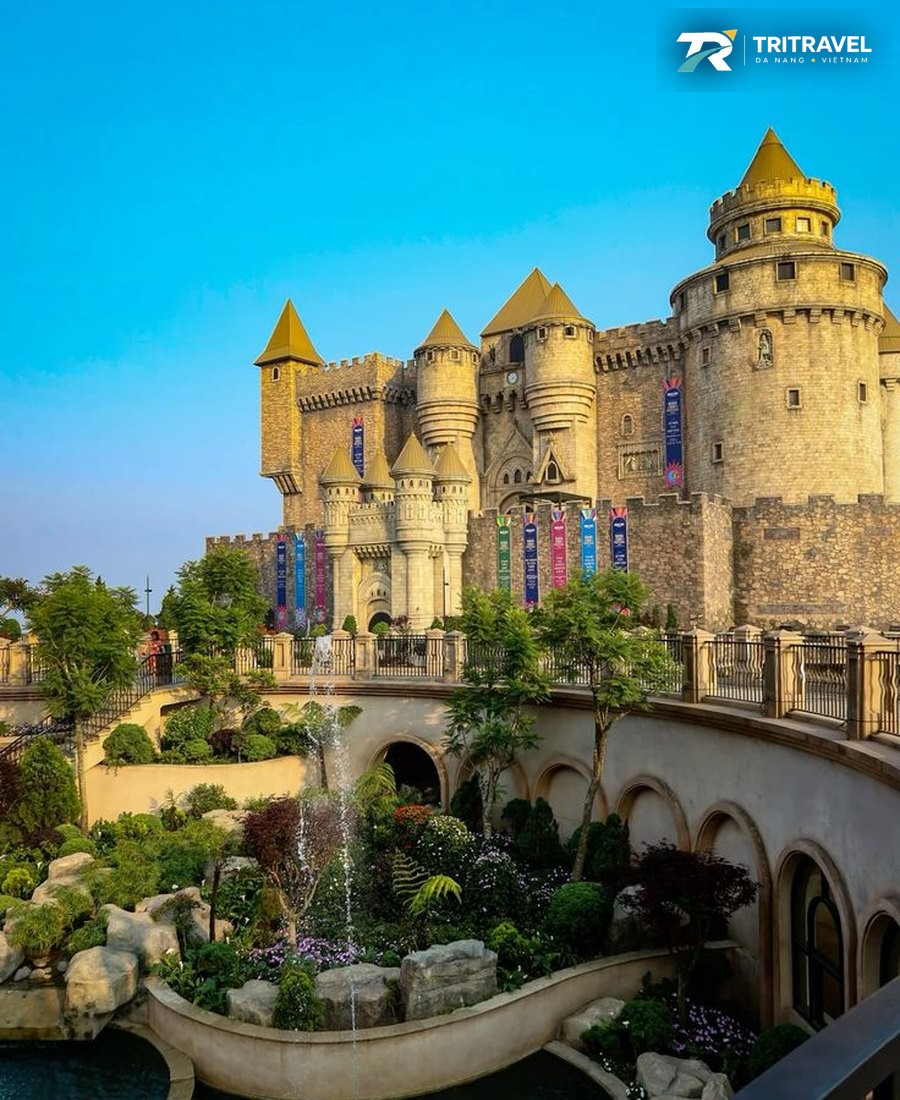
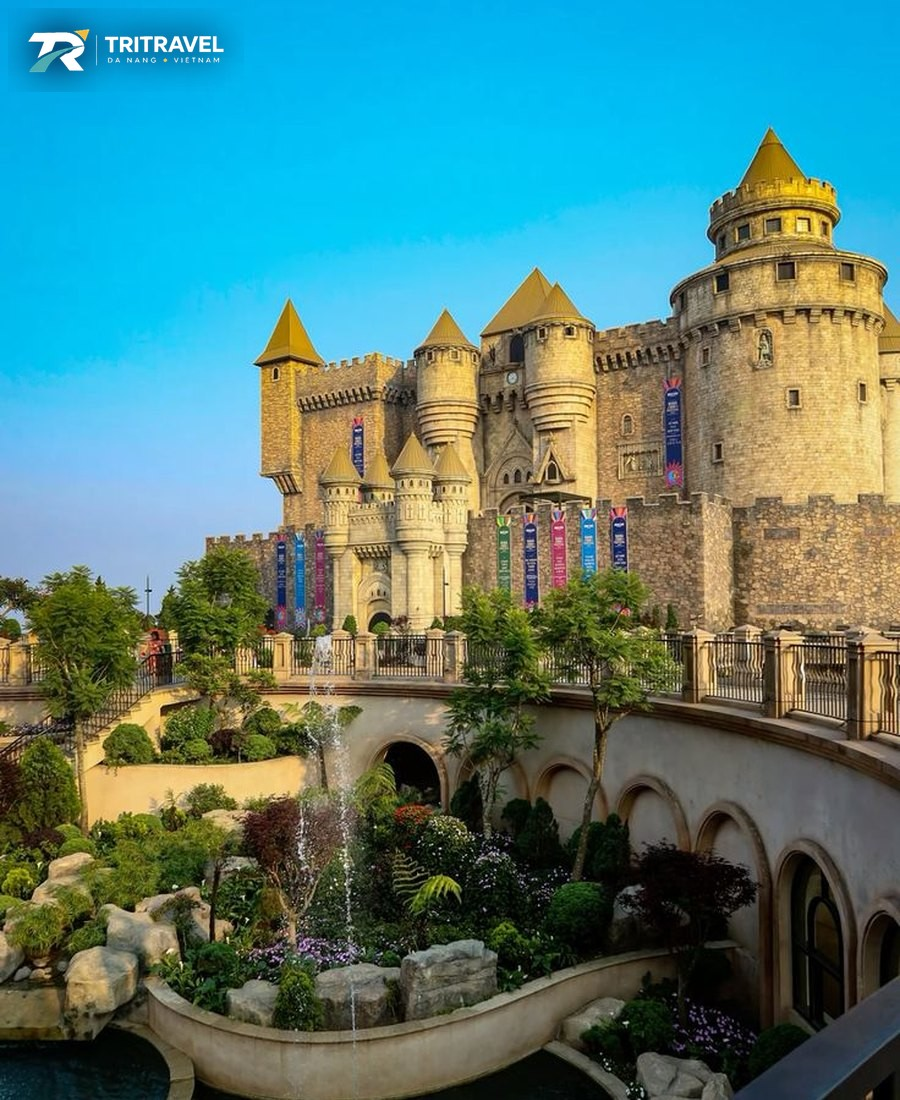
Add scroll colour transitions, arc-shaped images and hero zoom
- Homepage sections carry data-theme (paper/sand/navy/teal); while scrolling,
  the whole page background and text colours ease into the theme of the section
  at mid-screen. Without JS each section paints its own background.
- Header hides on scroll down and returns on scroll up.
- Tour cards, service photos, the about poster, blog thumbnails and article
  covers get one large rounded corner; corners avoid the stamped logo.
  The Ba Na card image is restamped with the logo top-left for its top-right arc.
- Slow zoom on the hero image (disabled with reduced motion).

Claude-Session: https://claude.ai/code/session_01MxRhHLASeYaVNE2NrfM7Db

Changed region(s): [[0.7156, 0.0, 0.9956, 0.0927], [0.0, 0.0, 0.2489, 0.0927]]

diff --git a/index.html b/index.html
@@ -52,7 +52,7 @@
 <link rel="preload" as="image" href="images/hero-danang.jpg">
 <link rel="stylesheet" href="assets/site.css">
 </head>
-<body>
+<body data-theme="paper">
 <!-- header:start -->
 <svg width="0" height="0" style="position:absolute" aria-hidden="true"><defs><symbol id="i-compass" viewBox="0 0 24 24"><circle cx="12" cy="12" r="9"/><path d="m15.5 8.5-2 5-5 2 2-5z"/></symbol><symbol id="i-visa" viewBox="0 0 24 24"><rect x="5" y="3" width="14" height="18" rx="2"/><circle cx="12" cy="10" r="3"/><path d="M9 17h6"/></symbol><symbol id="i-car" viewBox="0 0 24 24"><path d="M4 16v-3l2-5a2 2 0 0 1 2-1h8a2 2 0 0 1 2 1l2 5v3M3 16h18v2H3zM7 13h10"/><circle cx="7.5" cy="18" r="1.5"/><circle cx="16.5" cy="18" r="1.5"/></symbol><symbol id="i-plane" viewBox="0 0 24 24"><path d="M10.5 13.5 3 11l1.5-1.5 7 .5 4.6-4.6a2 2 0 0 1 2.8 2.8L14.300 12.800l.5 7L13.300 21.300z"/></symbol><symbol id="i-arrow" viewBox="0 0 24 24"><path d="M5 12h14M13 6l6 6-6 6"/></symbol><symbol id="i-check" viewBox="0 0 24 24"><path d="m5 12.500 4.500 4.500L19 7.500"/></symbol><symbol id="i-phone" viewBox="0 0 24 24"><path d="M5 4h4l2 5-2.500 1.500a11 11 0 0 0 5 5L15 13l5 2v4a2 2 0 0 1-2 2A16 16 0 0 1 3 6a2 2 0 0 1 2-2z"/></symbol><symbol id="i-chat" viewBox="0 0 24 24"><path d="M21 12a8 8 0 0 1-11.800 7L4 20l1.200-4.500A8 8 0 1 1 21 12z"/></symbol><symbol id="i-mail" viewBox="0 0 24 24"><rect x="3" y="5" width="18" height="14" rx="2"/><path d="m3 7 9 6 9-6"/></symbol><symbol id="i-menu" viewBox="0 0 24 24"><path d="M4 7h16M4 12h16M4 17h16"/></symbol><symbol id="i-clock" viewBox="0 0 24 24"><circle cx="12" cy="12" r="9"/><path d="M12 7v5l3 2"/></symbol><symbol id="i-link" viewBox="0 0 24 24"><path d="M10 14a4 4 0 0 0 5.700 0l3-3a4 4 0 0 0-5.700-5.700l-1 1M14 10a4 4 0 0 0-5.700 0l-3 3a4 4 0 0 0 5.700 5.700l1-1"/></symbol></defs></svg>
 <header class="site-header">
@@ -104,7 +104,7 @@
 </div>
 
 <!-- ===== TOUR ===== -->
-<section class="section" id="tours">
+<section class="section" id="tours" data-theme="paper">
   <div class="wrap"><span id="tour"></span>
     <div class="sec-head">
       <div><p class="eyebrow"><span lang="vi">Tour nổi bật</span><span lang="en">Signature tours</span></p>
@@ -112,28 +112,28 @@
       <p class="lede"><span lang="vi">Mỗi tour đều do TriTravel tự khảo sát và dẫn đoàn. Giá bên dưới là giá tham khảo cho một khách, thay đổi theo số người và mùa.</span><span lang="en">Every tour is scouted and led by TriTravel. Prices are per-person guides and vary with group size and season.</span></p>
     </div>
     <div class="tours">
-      <a class="tour reveal" href="#contact" data-service="tour" data-note="Tour Đà Nẵng – Hội An 1 ngày" data-note-en="Da Nang – Hoi An day tour">
+      <a class="tour reveal shape-tl" href="#contact" data-service="tour" data-note="Tour Đà Nẵng – Hội An 1 ngày" data-note-en="Da Nang – Hoi An day tour">
         <img src="images/web/tour-hoi-an.jpg" alt="Phố cổ Hội An lúc hoàng hôn" width="900" height="1100" loading="lazy">
-        <span class="tag"><span lang="vi">1 ngày</span><span lang="en">1 day</span></span>
         <div class="tour-body">
+          <span class="tag"><span lang="vi">1 ngày</span><span lang="en">1 day</span></span>
           <h3><span lang="vi">Đà Nẵng – Hội An cổ kính</span><span lang="en">Da Nang – Ancient Hoi An</span></h3>
           <p><span lang="vi">Dạo phố cổ, thả đèn hoa đăng trên sông Hoài, ăn cao lầu và bánh mì đúng quán người Hội An hay ăn.</span><span lang="en">Wander the old town, float lanterns on the Hoai River, eat cao lau and banh mi where Hoi An people actually go.</span></p>
           <div class="tour-foot"><b><span lang="vi">Từ 350.000₫</span><span lang="en">From $15</span></b><span><span lang="vi">Đặt tour</span><span lang="en">Book</span><svg class="icon" aria-hidden="true"><use href="#i-arrow"/></svg></span></div>
         </div>
       </a>
-      <a class="tour reveal" href="#contact" data-service="tour" data-note="Tour Bà Nà Hills – Cầu Vàng 1 ngày" data-note-en="Ba Na Hills – Golden Bridge day tour">
+      <a class="tour reveal shape-tr" href="#contact" data-service="tour" data-note="Tour Bà Nà Hills – Cầu Vàng 1 ngày" data-note-en="Ba Na Hills – Golden Bridge day tour">
         <img src="images/web/tour-ba-na.jpg" alt="Làng Pháp trên đỉnh Bà Nà Hills" width="900" height="1100" loading="lazy">
-        <span class="tag"><span lang="vi">1 ngày</span><span lang="en">1 day</span></span>
         <div class="tour-body">
+          <span class="tag"><span lang="vi">1 ngày</span><span lang="en">1 day</span></span>
           <h3><span lang="vi">Bà Nà Hills – Cầu Vàng</span><span lang="en">Ba Na Hills – Golden Bridge</span></h3>
           <p><span lang="vi">Lên Cầu Vàng trước giờ đông khách, thong thả qua Làng Pháp và vườn hoa Le Jardin d'Amour.</span><span lang="en">Reach the Golden Bridge before the crowds, then take your time through the French Village and Le Jardin d'Amour.</span></p>
           <div class="tour-foot"><b><span lang="vi">Từ 750.000₫</span><span lang="en">From $30</span></b><span><span lang="vi">Đặt tour</span><span lang="en">Book</span><svg class="icon" aria-hidden="true"><use href="#i-arrow"/></svg></span></div>
         </div>
       </a>
-      <a class="tour reveal" href="#contact" data-service="tour" data-note="Tour Huế cố đô 2 ngày" data-note-en="Hue Imperial City 2-day tour">
+      <a class="tour reveal shape-tl" href="#contact" data-service="tour" data-note="Tour Huế cố đô 2 ngày" data-note-en="Hue Imperial City 2-day tour">
         <img src="images/web/tour-hue.jpg" alt="Ngọ Môn, Đại Nội Huế nhìn từ trên cao" width="900" height="1100" loading="lazy">
-        <span class="tag"><span lang="vi">2 ngày</span><span lang="en">2 days</span></span>
         <div class="tour-body">
+          <span class="tag"><span lang="vi">2 ngày</span><span lang="en">2 days</span></span>
           <h3><span lang="vi">Huế – cố đô lịch sử</span><span lang="en">Hue – the Imperial City</span></h3>
           <p><span lang="vi">Đại Nội, lăng tẩm các vua Nguyễn, chùa Thiên Mụ và một buổi chiều thuyền rồng trên sông Hương.</span><span lang="en">The Citadel, the Nguyen royal tombs, Thien Mu Pagoda and a dragon-boat afternoon on the Perfume River.</span></p>
           <div class="tour-foot"><b><span lang="vi">Từ 1.200.000₫</span><span lang="en">From $50</span></b><span><span lang="vi">Đặt tour</span><span lang="en">Book</span><svg class="icon" aria-hidden="true"><use href="#i-arrow"/></svg></span></div>
@@ -149,7 +149,7 @@
 </section>
 
 <!-- ===== VISA & DỊCH THUẬT ===== -->
-<section class="section band-navy" id="visa">
+<section class="section band-navy" id="visa" data-theme="navy">
   <div class="wrap">
     <div class="visa-grid">
       <div>
@@ -189,7 +189,7 @@
 </section>
 
 <!-- ===== DI CHUYỂN ===== -->
-<section class="section" id="transport">
+<section class="section" id="transport" data-theme="paper">
   <div class="wrap">
     <div class="sec-head">
       <div><p class="eyebrow"><span lang="vi">Di chuyển</span><span lang="en">Getting around</span></p>
@@ -198,7 +198,7 @@
     </div>
     <div class="duo">
       <article class="svc reveal">
-        <div class="svc-img"><img src="images/web/car-rental.jpg" alt="Đội xe tự lái của TriTravel tại Đà Nẵng" width="1200" height="750" loading="lazy"></div>
+        <div class="svc-img shape-tl"><img src="images/web/car-rental.jpg" alt="Đội xe tự lái của TriTravel tại Đà Nẵng" width="1200" height="750" loading="lazy"></div>
         <div class="svc-body">
           <h3><span lang="vi">Thuê xe tự lái</span><span lang="en">Self-drive car rental</span></h3>
           <p><span lang="vi">Xe 4 đến 16 chỗ, đời mới, bảo dưỡng định kỳ. Giao xe tại sân bay, khách sạn hoặc bất kỳ đâu trong Đà Nẵng.</span><span lang="en">Late-model 4 to 16-seaters, regularly serviced. Delivered to the airport, your hotel or anywhere in Da Nang.</span></p>
@@ -207,7 +207,7 @@
         </div>
       </article>
       <article class="svc reveal">
-        <div class="svc-img"><img src="images/web/flights.jpg" alt="Vé máy bay điện tử trên điện thoại tại sân bay" width="1200" height="750" loading="lazy"></div>
+        <div class="svc-img shape-tr"><img src="images/web/flights.jpg" alt="Vé máy bay điện tử trên điện thoại tại sân bay" width="1200" height="750" loading="lazy"></div>
         <div class="svc-body">
           <h3><span lang="vi">Vé máy bay giá tốt</span><span lang="en">Well-priced flights</span></h3>
           <p><span lang="vi">So sánh giá và đặt vé nội địa, quốc tế. Tư vấn giờ bay hợp lịch trình, săn ưu đãi sớm, thanh toán gọn.</span><span lang="en">Fare comparison and booking for domestic and international routes, with schedule advice and early-bird deals.</span></p>
@@ -220,7 +220,7 @@
 </section>
 
 <!-- ===== GIỚI THIỆU ===== -->
-<section class="section band-sand" id="about">
+<section class="section" id="about" data-theme="teal">
   <div class="wrap">
     <div class="about">
       <div class="about-img reveal"><img src="images/poster-danang.jpg" alt="TriTravel × Đà Nẵng – Timeless Charm, Endless Memories" width="1086" height="1448" loading="lazy"></div>
@@ -242,7 +242,7 @@
 </section>
 
 <!-- ===== CẢM NHẬN ===== -->
-<section class="section" id="reviews">
+<section class="section" id="reviews" data-theme="sand">
   <div class="wrap">
     <div class="sec-head"><div><p class="eyebrow"><span lang="vi">Khách hàng nói gì</span><span lang="en">What guests say</span></p>
       <h2 class="h2"><span lang="vi">Niềm tin đến từ <em>những chuyến đi thật.</em></span><span lang="en">Trust built on <em>real trips.</em></span></h2></div></div>
@@ -261,7 +261,7 @@
 </section>
 
 <!-- ===== BLOG ===== -->
-<section class="section band-sand" id="blog">
+<section class="section" id="blog" data-theme="sand">
   <div class="wrap">
     <div class="sec-head">
       <div><p class="eyebrow">Blog</p><h2 class="h2"><span lang="vi">Kinh nghiệm thật, <em>viết để dùng được.</em></span><span lang="en">First-hand tips, <em>written to be used.</em></span></h2></div>
@@ -277,7 +277,7 @@
 </section>
 
 <!-- ===== FAQ ===== -->
-<section class="section" id="faq">
+<section class="section" id="faq" data-theme="paper">
   <div class="wrap faq">
     <div><p class="eyebrow"><span lang="vi">Hỏi nhanh</span><span lang="en">Quick answers</span></p>
       <h2 class="h2"><span lang="vi">Những điều khách hay hỏi <em>trước khi đặt.</em></span><span lang="en">What guests ask <em>before booking.</em></span></h2>
@@ -293,7 +293,7 @@
 </section>
 
 <!-- ===== LIÊN HỆ ===== -->
-<section class="section band-navy" id="contact">
+<section class="section band-navy" id="contact" data-theme="navy">
   <span id="booking"></span>
   <div class="wrap contact">
     <div>

diff --git a/assets/site.css b/assets/site.css
@@ -13,7 +13,7 @@
 }
 *,*::before,*::after{box-sizing:border-box}
 html{scroll-behavior:smooth;scroll-padding-top:84px;-webkit-text-size-adjust:100%}
-body{margin:0;font-family:var(--sans);font-size:17px;line-height:1.65;color:var(--text);background:var(--paper);-webkit-font-smoothing:antialiased}
+body{margin:0;font-family:var(--sans);font-size:17px;line-height:1.65;color:var(--text);background:var(--bg);-webkit-font-smoothing:antialiased}
 img{max-width:100%;height:auto;display:block}
 a{color:inherit}
 h1,h2,h3,h4{font-family:var(--serif);font-weight:560;color:var(--navy);line-height:1.14;letter-spacing:-.012em;margin:0;text-wrap:balance}
@@ -75,7 +75,7 @@ html:not(.en) .lang [data-set="vi"],html.en .lang [data-set="en"]{background:#ff
 @media(min-width:1040px){.nav{display:flex}.head-tools{margin-left:8px}.head-cta{display:inline-flex}.menu-btn{display:none}.site-header.open .mobile-nav{display:none}}
 
 /* Hero trang chủ */
-.hero{position:relative;min-height:min(100svh,900px);display:flex;align-items:flex-end;color:#fff;isolation:isolate;padding:140px 0 150px}
+.hero{position:relative;overflow:hidden;min-height:min(100svh,900px);display:flex;align-items:flex-end;color:#fff;isolation:isolate;padding:140px 0 150px}
 .hero-bg{position:absolute;inset:0;z-index:-2;width:100%;height:100%;object-fit:cover;object-position:60% 50%}
 .hero::before{content:"";position:absolute;inset:0;z-index:-1;background:linear-gradient(100deg,rgba(7,24,51,.93) 0%,rgba(7,24,51,.72) 42%,rgba(7,24,51,.15) 100%),linear-gradient(0deg,rgba(7,24,51,.75),transparent 45%)}
 .hero .eyebrow{color:var(--gold)}
@@ -112,7 +112,7 @@ html:not(.en) .lang [data-set="vi"],html.en .lang [data-set="en"]{background:#ff
 .tour::after{content:"";position:absolute;inset:0;z-index:-1;background:linear-gradient(0deg,rgba(7,24,51,.95) 8%,rgba(7,24,51,.5) 45%,rgba(7,24,51,0) 70%)}
 .tour-body{padding:26px}
 .tag{display:inline-block;font-size:.74rem;font-weight:600;letter-spacing:.08em;text-transform:uppercase;background:rgba(255,255,255,.16);backdrop-filter:blur(6px);padding:5px 12px;border-radius:999px}
-.tour .tag{position:absolute;top:18px;left:18px;background:rgba(7,24,51,.6)}
+.tour .tag{background:rgba(255,255,255,.18);margin-bottom:12px}
 .tour h3{color:#fff;font-size:1.6rem;margin-bottom:8px}
 .tour p{font-size:.92rem;color:rgba(255,255,255,.82);margin-bottom:16px}
 .tour-foot{display:flex;justify-content:space-between;align-items:center;border-top:1px solid rgba(255,255,255,.22);padding-top:14px;font-size:.9rem}
@@ -123,13 +123,9 @@ html:not(.en) .lang [data-set="vi"],html.en .lang [data-set="en"]{background:#ff
 .custom-tour p{margin:6px 0 0;color:var(--muted);font-size:.96rem;max-width:58ch}
 
 /* Visa */
-.band-navy{background:var(--navy-deep);color:rgba(255,255,255,.84);position:relative;overflow:hidden}
-.band-navy::before{content:"";position:absolute;width:680px;height:680px;border-radius:50%;right:-240px;top:-300px;background:radial-gradient(circle,rgba(78,171,176,.22),transparent 65%)}
+.band-navy{position:relative;overflow:hidden}
+.band-navy::before{content:"";position:absolute;width:680px;height:680px;border-radius:50%;right:-240px;top:-300px;background:radial-gradient(circle,rgba(78,171,176,.22),transparent 65%);opacity:var(--glow);transition:opacity .8s}
 .band-navy .wrap{position:relative}
-.band-navy h2,.band-navy h3{color:#fff}
-.band-navy .h2 em{color:var(--gold)}
-.band-navy .eyebrow{color:var(--teal-soft)}
-.band-navy .lede{color:rgba(255,255,255,.75)}
 .visa-grid{display:grid;gap:48px}
 @media(min-width:960px){.visa-grid{grid-template-columns:1.05fr .95fr;gap:72px}}
 .regions{display:grid;gap:18px;margin:30px 0 34px}
@@ -165,7 +161,6 @@ html:not(.en) .lang [data-set="vi"],html.en .lang [data-set="en"]{background:#ff
 .svc .btn{align-self:flex-start;margin-top:auto}
 
 /* Giới thiệu */
-.band-sand{background:var(--sand)}
 .about{display:grid;gap:44px;align-items:center}
 @media(min-width:900px){.about{grid-template-columns:.8fr 1.2fr;gap:80px}}
 .about-img{position:relative;max-width:440px}
@@ -267,7 +262,53 @@ details.q p{color:var(--muted);padding:0 40px 20px 0;margin:0}
 /* Hiệu ứng xuất hiện */
 .js .reveal{opacity:0;transform:translateY(22px);transition:opacity .7s,transform .7s}
 .js .reveal.in{opacity:1;transform:none}
-@media(prefers-reduced-motion:reduce){html{scroll-behavior:auto}.js .reveal{opacity:1;transform:none;transition:none}*{transition-duration:.01ms!important}}
+@media(prefers-reduced-motion:reduce){html{scroll-behavior:auto}.hero-bg{animation:none!important}.js .reveal{opacity:1;transform:none;transition:none}*{transition-duration:.01ms!important}}
+
+/* ---------- Màu theo phần (trang chủ) ----------
+   Mỗi <section data-theme="…"> mang một tông màu. Khi có JS (html.fx), nền cả
+   trang đổi mượt sang tông của phần đang ở giữa màn hình; không có JS thì mỗi
+   phần tự tô nền của mình. */
+:root,body[data-theme=paper],html:not(.fx) section[data-theme=paper]{--bg:#FAF7F1;--fg:#1F2D47;--head:#0C254D;--muted-c:#5A6781;--accent:#23808A;--eye:#23808A;--line-c:#E3DACA;--tint:#fff;--glow:0}
+body[data-theme=sand],html:not(.fx) section[data-theme=sand]{--bg:#F2E8D8;--fg:#1F2D47;--head:#0C254D;--muted-c:#56637C;--accent:#23808A;--eye:#1F747D;--line-c:#DDCFB6;--tint:#fff;--glow:0}
+body[data-theme=navy],html:not(.fx) section[data-theme=navy]{--bg:#071833;--fg:rgba(255,255,255,.84);--head:#fff;--muted-c:rgba(255,255,255,.72);--accent:#E9B949;--eye:#4EABB0;--line-c:rgba(255,255,255,.14);--tint:rgba(255,255,255,.06);--glow:1}
+body[data-theme=teal],html:not(.fx) section[data-theme=teal]{--bg:#0D3A3F;--fg:rgba(255,255,255,.86);--head:#F7F2E7;--muted-c:rgba(255,255,255,.74);--accent:#E9B949;--eye:#8FD0D3;--line-c:rgba(255,255,255,.17);--tint:rgba(255,255,255,.07);--glow:0}
+html:not(.fx) section[data-theme]{background:var(--bg)}
+.fx body{transition:background-color .8s cubic-bezier(.4,0,.2,1)}
+.fx section[data-theme] :where(h2,h3,h4,p,span,b,i,em,dt,dd,li,summary,blockquote,small,figcaption,.stat,.region,.trip,details,.panel,.channel){transition:color .8s,border-color .8s,background-color .8s}
+section[data-theme]{color:var(--fg)}
+section[data-theme] :is(h2,h3,h4,.stat b,.steps b,.region dd,.about blockquote,.sign b,details.q summary,.link-arrow,.post-card h3,.channel){color:var(--head)}
+section[data-theme] :is(.lede,.trip p,.sign span,details.q p,.post-card p,.channel small,.posts-empty){color:var(--muted-c)}
+section[data-theme] :is(.eyebrow,.post-meta,.region dt){color:var(--eye)}
+section[data-theme] :is(.h2 em,.trip b),section[data-theme] .post-card:hover h3{color:var(--accent)}
+section[data-theme] :is(.region,.steps li,.trip,details.q,.channel){border-color:var(--line-c)}
+section[data-theme] .panel{background:var(--tint);border-color:var(--line-c)}
+/* thẻ nền trắng luôn giữ bảng màu sáng */
+.svc,.quote,.form,.custom-tour,.picker-grid{--head:#0C254D;--fg:#1F2D47;--muted-c:#5A6781;--accent:#23808A;--eye:#23808A;--line-c:#E3DACA}
+.svc,.quote,.custom-tour{color:var(--fg)}
+.tour{--head:#fff}
+.svc p,.custom-tour p,.quote figcaption{color:var(--muted-c)}
+
+/* Header ẩn khi cuộn xuống, hiện lại khi cuộn lên */
+.site-header{transition:background .3s,box-shadow .3s,transform .45s cubic-bezier(.4,0,.2,1)}
+.site-header.hide{transform:translateY(-100%)}
+
+/* Ảnh hero phóng chậm */
+.hero-bg{animation:heroZoom 18s cubic-bezier(.2,.6,.3,1) both}
+@keyframes heroZoom{from{transform:scale(1.14)}to{transform:scale(1)}}
+
+/* Ảnh cắt cung tròn: một góc bo thật lớn */
+.shape-tl,.shape-tr,.shape-bl,.shape-br,.about-img img,.about-img::before,.cover img,.posts .thumb{--arc:clamp(90px,15vw,210px)}
+.shape-tl{border-top-left-radius:var(--arc)!important}
+.shape-tr{border-top-right-radius:var(--arc)!important}
+.shape-bl{border-bottom-left-radius:var(--arc)!important}
+.shape-br{border-bottom-right-radius:var(--arc)!important}
+.about-img img,.about-img::before{border-top-right-radius:var(--arc)!important}
+.cover img{border-bottom-right-radius:var(--arc)!important}
+.posts .post-card:nth-child(odd) .thumb{border-bottom-right-radius:var(--arc)}
+.posts .post-card:nth-child(even) .thumb{border-bottom-left-radius:var(--arc)}
+.js .reveal .svc-img img,.js .tour.reveal img{transform:scale(1.12);transition:transform 1.4s cubic-bezier(.2,.6,.3,1)}
+.js .reveal.in .svc-img img,.js .tour.reveal.in img{transform:scale(1)}
+.js .tour.reveal.in:hover img,.js .reveal.in.svc:hover .svc-img img{transform:scale(1.05)}
 
 /* ---------- Blog ---------- */
 .page-hero{background:var(--navy-deep);color:rgba(255,255,255,.8);padding:150px 0 70px;position:relative;overflow:hidden}

diff --git a/assets/site.js b/assets/site.js
@@ -29,6 +29,36 @@
     });
   }
 
+  // Header ẩn khi cuộn xuống, hiện khi cuộn lên
+  if (header && !header.classList.contains('solid')) {
+    var lastY = window.scrollY;
+    window.addEventListener('scroll', function () {
+      var y = window.scrollY;
+      if (!header.classList.contains('open')) header.classList.toggle('hide', y > lastY && y > 320);
+      lastY = y;
+    }, { passive: true });
+  }
+
+  // Đổi tông màu cả trang theo phần đang ở giữa màn hình (trang chủ)
+  var themed = doc.querySelectorAll('section[data-theme]');
+  if (themed.length) {
+    var body = doc.body, base = body.getAttribute('data-theme') || 'paper', ticking = false;
+    root.classList.add('fx');
+    var pick = function () {
+      ticking = false;
+      var mid = window.innerHeight * 0.55, t = base;
+      for (var i = 0; i < themed.length; i++) {
+        var r = themed[i].getBoundingClientRect();
+        if (r.top < mid && r.bottom > mid) { t = themed[i].getAttribute('data-theme'); break; }
+        if (r.top < mid) t = themed[i].getAttribute('data-theme');
+      }
+      if (body.getAttribute('data-theme') !== t) body.setAttribute('data-theme', t);
+    };
+    window.addEventListener('scroll', function () { if (!ticking) { ticking = true; requestAnimationFrame(pick); } }, { passive: true });
+    window.addEventListener('resize', pick);
+    pick();
+  }
+
   // Hiệu ứng xuất hiện khi cuộn
   var items = doc.querySelectorAll('.reveal');
   if ('IntersectionObserver' in window) {
